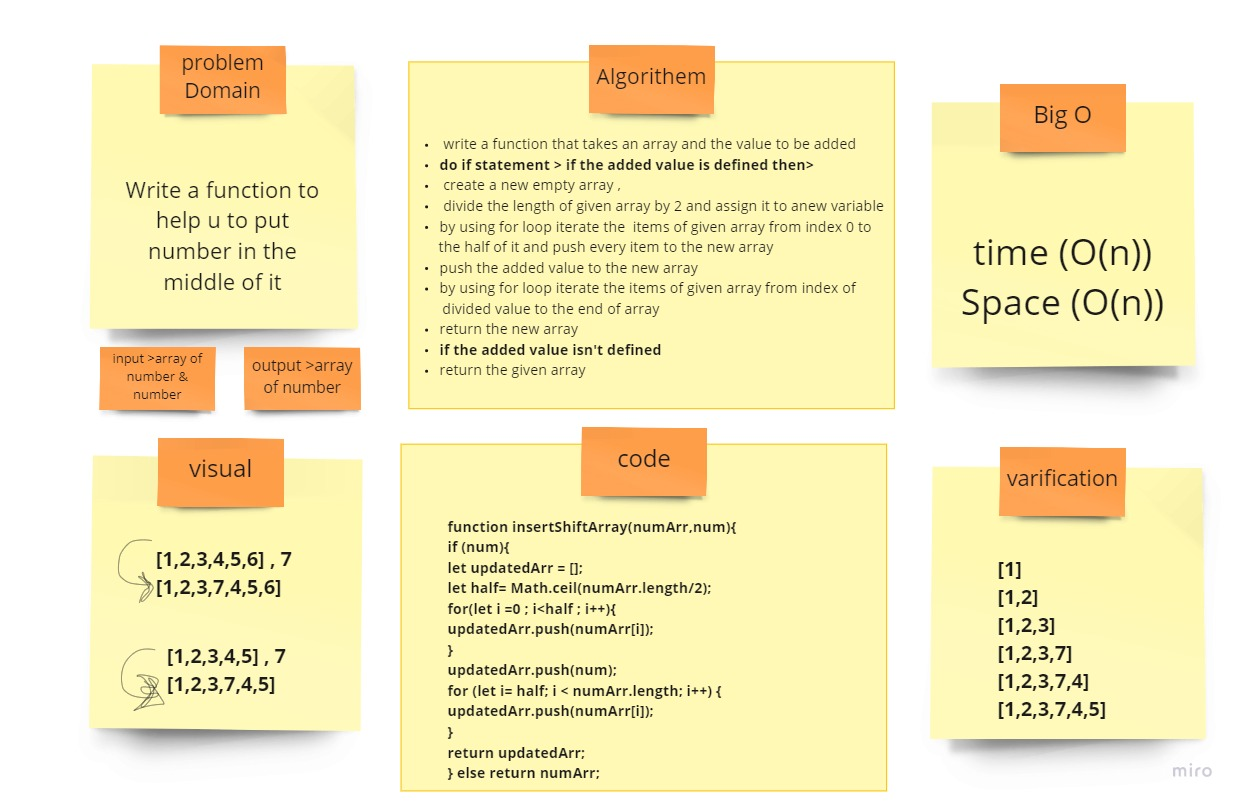
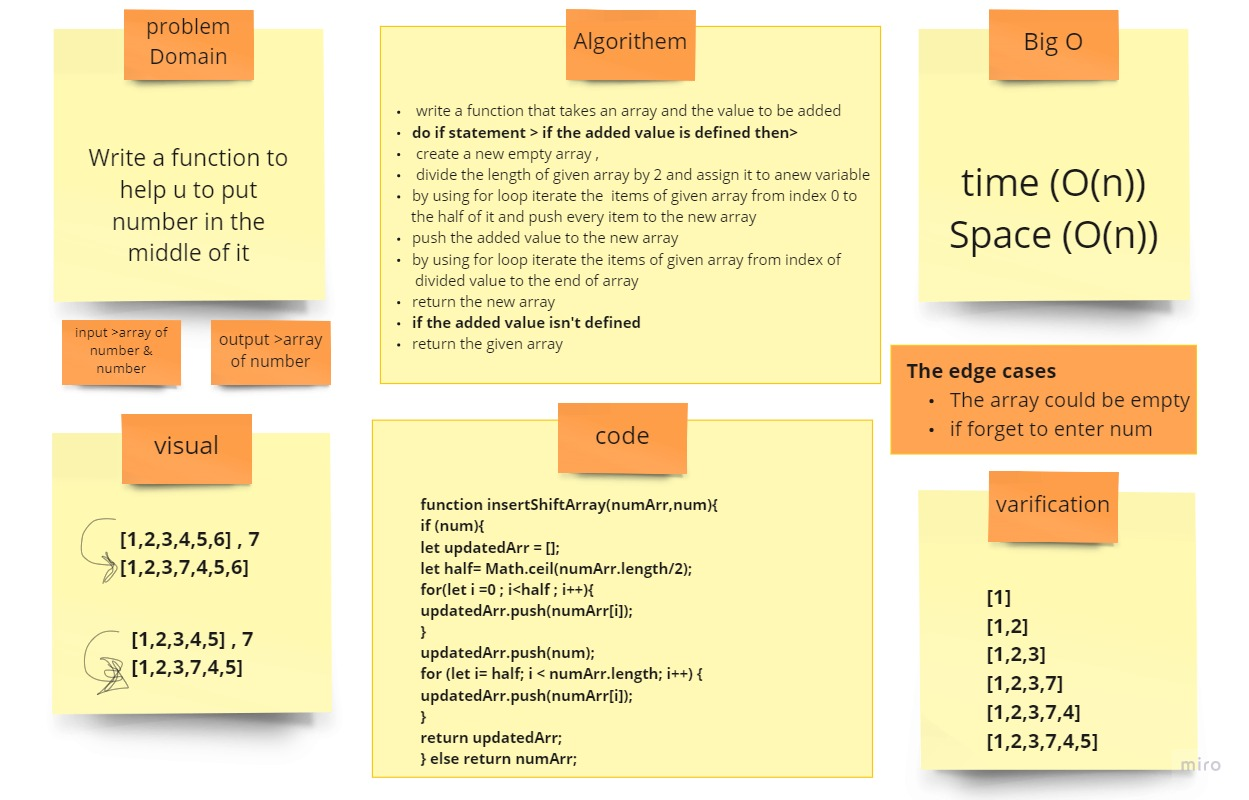
edit read

diff --git a/javascript/code-challenges/array-shift/array-shift.md b/javascript/code-challenges/array-shift/array-shift.md
@@ -1,3 +1,24 @@
 # Reverse Array 
 
+## Challenge
+Write a function which takes in an array and the value to be added. return an array with the new value added at the middle index.
+
+## Approach & Efficiency
+ write a function that takes an array and the value to be added
+do if statement > if the added value is defined then>
+ create a new empty array ,
+ divide the length of given array by 2 and assign it to anew variable
+by using for loop iterate the  items of given array from index 0 to
+        the half of it and push every item to the new array
+
+push the added value to the new array
+by using for loop iterate the items of given array from index of
+         divided value to the end of array
+
+return the new array
+if the added value isn't defined
+return the given array
+
+
+## Solution
 ![image](../assets/shift.jpg)
